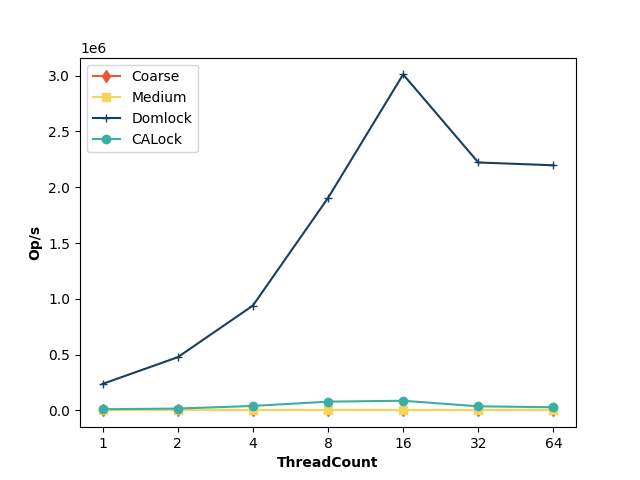
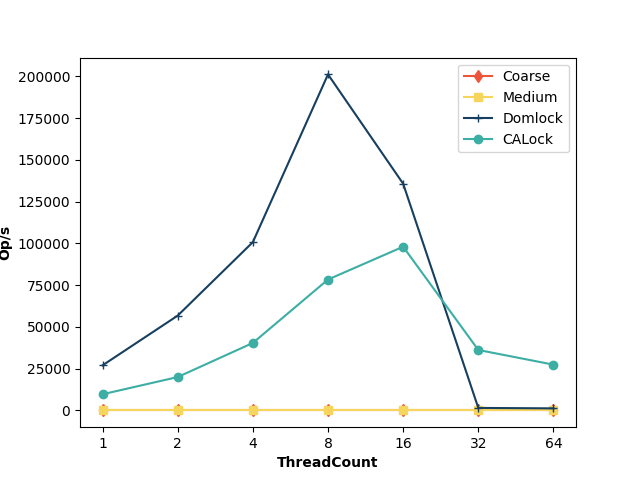
Test runs with dominator finding

diff --git a/Performance Tests/src/operations/locking_domLock/query_ops_dom.cpp b/Performance Tests/src/operations/locking_domLock/query_ops_dom.cpp
@@ -33,12 +33,15 @@ int sb7::DomQuery1::innerRun(int tid) const {
         if(string(name) == "Q1"){
             min = query.val->m_pre_number;
             max = query.val->m_post_number;
+            pthread_rwlock_t  *lock = dominatorHelper::getDominatorLock(dataHolder, &(min),&(max));
             auto *inv = new interval(min,max,0);
             //cout<<query.val->m_pre_number<<", "<<query.val->m_post_number<<".........."<<min<<", "<<max<<endl;
             if(!ICheck.IsOverlap(inv, 0, threadID))
             {
+                pthread_rwlock_rdlock(lock);
                 performOperationOnAtomicPart(query.val);
                 count++;
+                pthread_rwlock_unlock(lock);
                 ICheck.Delete(threadID);
             }
         }
@@ -49,8 +52,10 @@ int sb7::DomQuery1::innerRun(int tid) const {
             auto *inv = new interval(min,max,1);
             if(!ICheck.IsOverlap(inv, 1, threadID))
             {
+                pthread_rwlock_wrlock(lock);
                 performOperationOnAtomicPart(query.val);
                 count++;
+                pthread_rwlock_unlock(lock);
                 ICheck.Delete(threadID);
             }
         }
@@ -122,16 +127,23 @@ int sb7::DomQuery2::innerRun(int tid) const {
             mode = 0;
         if(string(name) == "OP10")
             mode = 1;
-
     if(aparts.empty()){
         throw Sb7Exception();
     }
+        pthread_rwlock_t  *lock = dominatorHelper::getDominatorLock(dataHolder, &(min),&(max));
         auto *inv = new interval(min,max,mode);
         if(!ICheck.IsOverlap(inv, mode, tid)) {
+            if(mode==0){
+                pthread_rwlock_rdlock(lock);
+            } else {
+                pthread_rwlock_wrlock(lock);
+            }
+
             for(auto * apart: aparts){
                 performOperationOnAtomicPart(apart);
                 count++;
             }
+            pthread_rwlock_unlock(lock);
             ICheck.Delete(tid);
         }
 	}

diff --git a/Performance Tests/src/operations/locking_domLock/operation_ops_dom.cpp b/Performance Tests/src/operations/locking_domLock/operation_ops_dom.cpp
@@ -52,9 +52,12 @@ int sb7::DomOperation6::innerRun(int tid) const {
 	if(superAssm == NULL || superAssm->m_pre_number==0 || superAssm->m_post_number==0) {
         min = cassm->m_pre_number;
         max = cassm->m_post_number;
+        pthread_rwlock_t  *lock = dominatorHelper::getDominatorLock(dataHolder, &(min),&(max));
         auto *inv = new interval(min,max,0);
         if(!ICheck.IsOverlap(inv, 0, tid)) {
+            pthread_rwlock_rdlock(lock);
             performOperationOnComplexAssembly(cassm);
+            pthread_rwlock_unlock(lock);
             ret = 1;
             ICheck.Delete(tid);
         }
@@ -66,12 +69,15 @@ int sb7::DomOperation6::innerRun(int tid) const {
 		ret = 0;
         min = superAssm->m_pre_number;
         max = superAssm->m_post_number;
+        pthread_rwlock_t  *lock = dominatorHelper::getDominatorLock(dataHolder, &(min),&(max));
         auto *inv = new interval(min,max,0);
         if(!ICheck.IsOverlap(inv, 0, tid)) {
+            pthread_rwlock_rdlock(lock);
             while(iter.has_next()) {
                 performOperationOnComplexAssembly((ComplexAssembly *)iter.next());
                 ret++;
             }
+            pthread_rwlock_unlock(lock);
             ICheck.Delete(tid);
         }
 	}
@@ -119,11 +125,14 @@ int sb7::DomOperation7::innerRun(int tid) const {
 	int ret = 0;
 
     auto *inv = new interval(superAssm->m_pre_number,superAssm->m_post_number,0);
+    pthread_rwlock_t  *lock = dominatorHelper::getDominatorLock(dataHolder, &(superAssm->m_pre_number),&(superAssm->m_post_number));
     if(!ICheck.IsOverlap(inv, 0, tid)) {
+        pthread_rwlock_rdlock(lock);
         while(iter.has_next()) {
             performOperationOnBaseAssembly((BaseAssembly *)iter.next());
             ret++;
         }
+        pthread_rwlock_unlock(lock);
         ICheck.Delete(tid);
     }
 

diff --git a/Performance Tests/src/operations/operations.cpp b/Performance Tests/src/operations/operations.cpp
@@ -250,15 +250,15 @@ void sb7::Operations::initOperationsLockDom(DataHolder *dh) {
     //ops.push_back(new DomShortTraversal10(dh));
 
     ops.push_back(new DomQuery1(dh));
-//    ops.push_back(new DomQuery2(dh));
+    ops.push_back(new DomQuery2(dh));
     //ops.push_back(new DomQuery3(dh)); Not implemented
     //ops.push_back(new DomTraversal8(dh)); Trivial and does not need locks.
 //    ops.push_back(new DomTraversal9(dh)); Trivial and does not need locks.
-//    ops.push_back(new DomOperation6(dh));
-//    ops.push_back(new DomOperation7(dh));
+    ops.push_back(new DomOperation6(dh));
+    ops.push_back(new DomOperation7(dh));
     //ops.push_back(new DomOperation8(dh));
-//     ops.push_back(new DomOperation9(dh));
-//    ops.push_back(new DomOperation10(dh));
+     ops.push_back(new DomOperation9(dh));
+    ops.push_back(new DomOperation10(dh));
 //    ops.push_back(new DomOperation11(dh)); Traversal operation
 //    ops.push_back(new DomOperation12(dh));
 //    ops.push_back(new DomOperation13(dh));
@@ -266,8 +266,8 @@ void sb7::Operations::initOperationsLockDom(DataHolder *dh) {
 //    ops.push_back(new DomOperation15(dh)); Index update
 //
 //    ops.push_back(new DomStructuralModification1(dh)); Node creation
-//    ops.push_back(new DomStructuralModification2(dh));
-//    ops.push_back(new DomStructuralModification3(dh));
+    ops.push_back(new DomStructuralModification2(dh));
+    ops.push_back(new DomStructuralModification3(dh));
     //    ops.push_back(new DomStructuralModification4(dh));
 //    ops.push_back(new DomStructuralModification5(dh));
 //    ops.push_back(new DomStructuralModification6(dh));

diff --git a/Performance Tests/src/operations/locking_domLock/structural_modification_ops_dom.cpp b/Performance Tests/src/operations/locking_domLock/structural_modification_ops_dom.cpp
@@ -35,9 +35,12 @@ int sb7::DomStructuralModification2::run(int tid) const {
     long int min=5000000, max=0;
     min = cpart->m_pre_number;
     max = cpart->m_post_number;
+    pthread_rwlock_t  *lock = dominatorHelper::getDominatorLock(dataHolder, &(min),&(max));
     auto *inv = new interval(min,max,1);
     if(!ICheck.IsOverlap(inv, 1, tid)) {
+        pthread_rwlock_wrlock(lock);
         dataHolder->deleteCompositePart(cpart);
+        pthread_rwlock_unlock(lock);
         ICheck.Delete(tid);
     }
 	return 0;
@@ -71,11 +74,14 @@ int sb7::DomStructuralModification3::run(int tid) const {
     if(cpart-> m_post_number > max )
         max = cpart-> m_post_number;
 
+    pthread_rwlock_t  *lock = dominatorHelper::getDominatorLock(dataHolder, &(min),&(max));
     auto *inv = new interval(min,max,1);
     if(!ICheck.IsOverlap(inv, 1, tid)) {
+        pthread_rwlock_wrlock(lock);
         bassm->addComponent(cpart);
         auto *r = new DomRelabelling(dataHolder);
         r->traverse(dataHolder->getModule()->getDesignRoot());
+        pthread_rwlock_unlock(lock);
         ICheck.Delete(tid);
     }
 	return 0;
